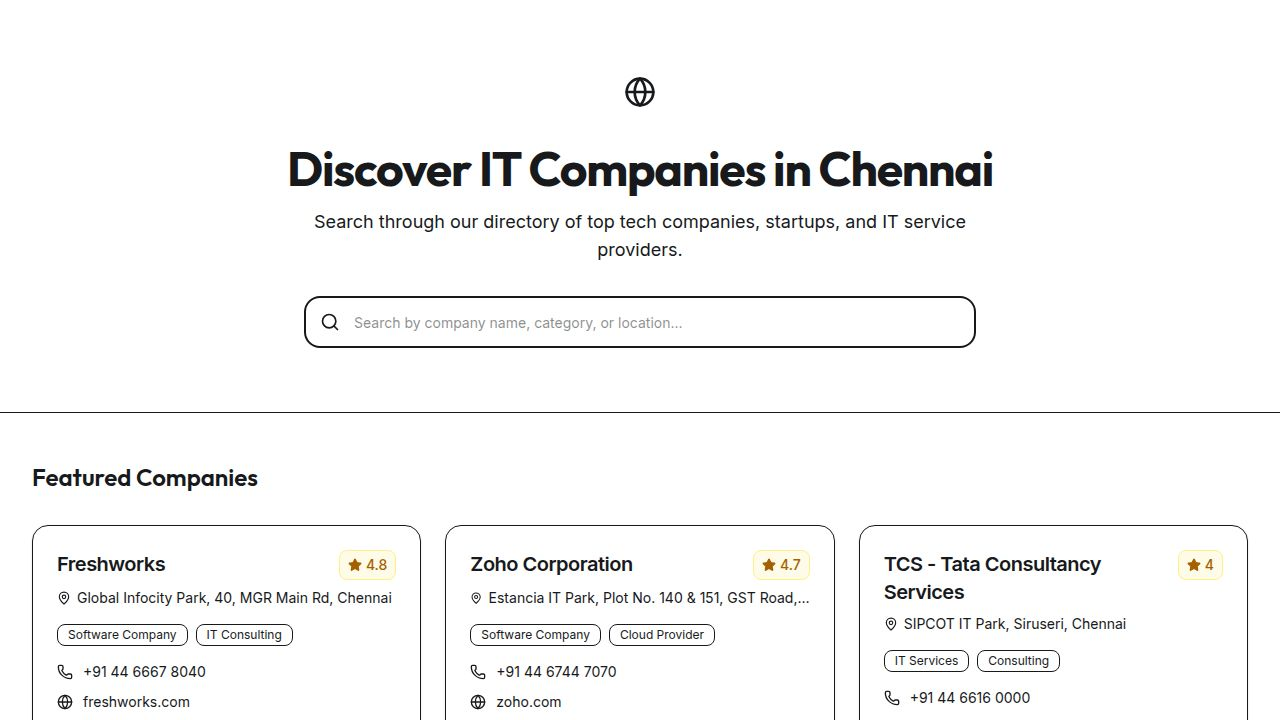
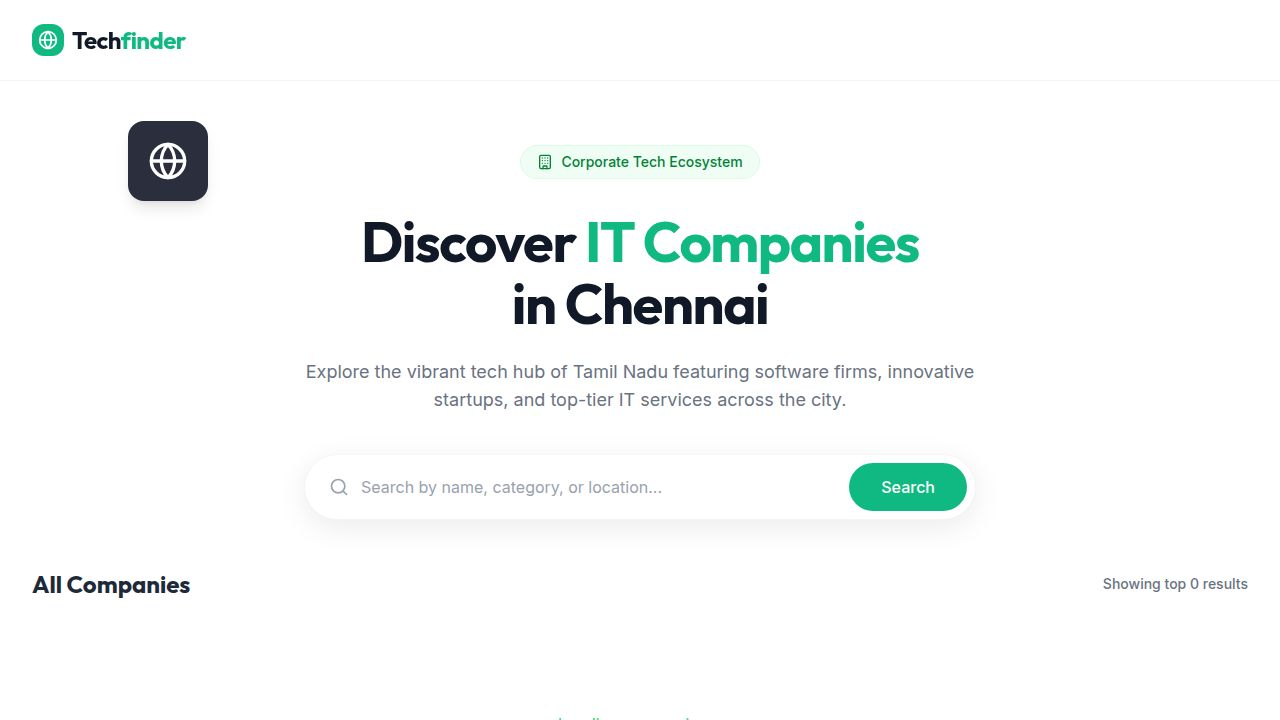
Update homepage title and add navigation bar
Restructures the Home page component to include a new sticky navigation bar with the "Techfinder" logo and updates the main heading from "Discover Techfinder" to "Discover IT Companies in Chennai".

Replit-Commit-Author: Agent
Replit-Commit-Session-Id: b271c618-20af-4ed8-9a59-c0027b19b42b
Replit-Commit-Checkpoint-Type: full_checkpoint
Replit-Commit-Event-Id: b7734274-b4b5-4f8b-bae2-466979f06222
Replit-Commit-Screenshot-Url: https://storage.googleapis.com/screenshot-production-us-central1/1110b601-8c97-43fa-927f-ac16fee111b0/b271c618-20af-4ed8-9a59-c0027b19b42b/VeHOJwS
Replit-Helium-Checkpoint-Created: true

diff --git a/client/src/pages/Home.tsx b/client/src/pages/Home.tsx
@@ -44,6 +44,19 @@ export default function Home() {
 
   return (
     <div className="min-h-screen bg-white flex flex-col font-sans">
+      
+      {/* Navigation Bar */}
+      <nav className="w-full px-8 py-6 flex items-center justify-between border-b border-gray-100 sticky top-0 bg-white/80 backdrop-blur-md z-40">
+        <div className="flex items-center gap-2">
+          <div className="w-8 h-8 bg-[#10B981] rounded-lg flex items-center justify-center">
+            <Globe className="w-5 h-5 text-white" />
+          </div>
+          <span className="text-2xl font-bold text-[#111827] font-display tracking-tight">
+            Tech<span className="text-[#10B981]">finder</span>
+          </span>
+        </div>
+      </nav>
+
       {/* Header Section */}
       <div className="pt-16 px-8 pb-12 text-center max-w-3xl mx-auto flex flex-col items-center w-full relative">
         <div className="absolute -left-32 top-10 w-20 h-20 bg-[#2A2E3D] rounded-2xl flex items-center justify-center shadow-lg hidden xl:flex">
@@ -56,7 +69,7 @@ export default function Home() {
         </div>
 
         <h1 className="text-5xl md:text-[3.5rem] font-extrabold tracking-tight text-[#111827] leading-[1.1] mb-6 font-display">
-          Discover <span className="text-[#10B981]">Techfinder</span>
+          Discover <span className="text-[#10B981]">IT Companies</span>
           <br />
           in Chennai
         </h1>
